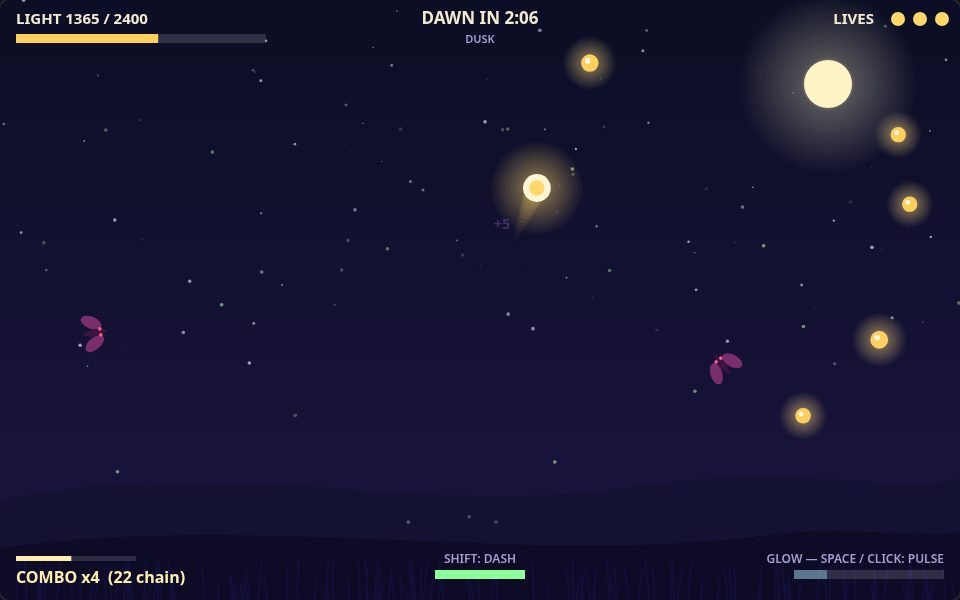
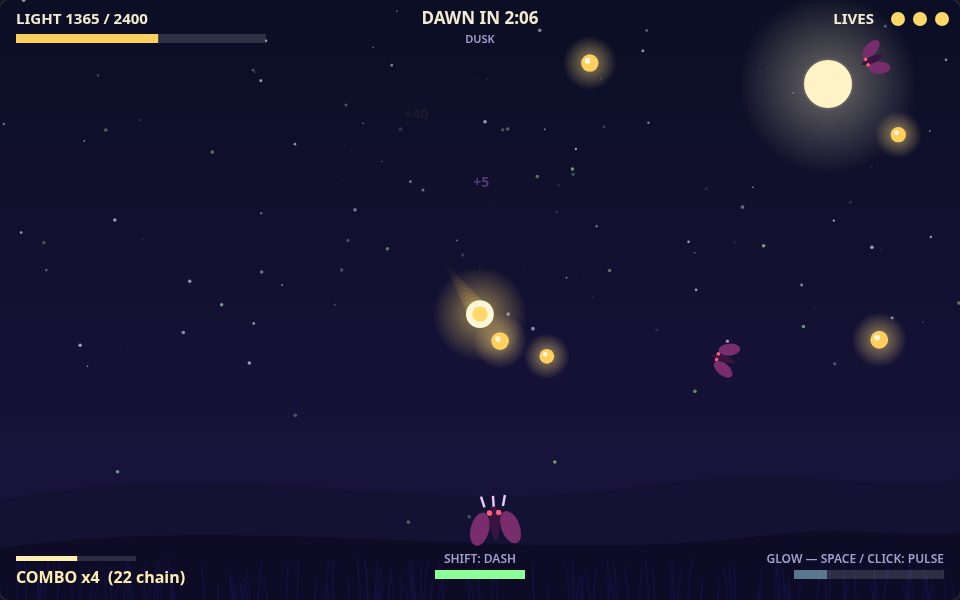
Lumen Drift v3: difficulty select, elder moths, best-score record

diff --git a/game/src/world.js b/game/src/world.js
@@ -4,7 +4,9 @@
 // banishes every moth it touches. Pure state and steps: no drawing, no DOM,
 // so the screenshot scenes can run it headless from a seed.
 
-import { DASH, FIELD, GAME, MOTE, MOTH, PLAYER, PULSE } from './config.js';
+import {
+  DASH, DEFAULT_DIFFICULTY, DIFFICULTIES, FIELD, GAME, MOTE, MOTH, PLAYER, PULSE,
+} from './config.js';
 import { makeRandom, pointInField, range } from './random.js';
 
 export const SCREEN_TITLE = 'title';
@@ -50,11 +52,14 @@ export function comboTier(combo) {
   return Math.min(GAME.comboMaxTier, 1 + Math.floor(combo / GAME.comboPerTier));
 }
 
-export function createWorld(seed) {
+export function createWorld(seed, difficulty = DEFAULT_DIFFICULTY) {
   const random = makeRandom(seed);
   const state = {
     random,
     screen: SCREEN_TITLE,
+    difficulty,            // index into DIFFICULTIES, chosen on the title screen
+    goal: DIFFICULTIES[difficulty].goal,
+    best: 0,               // best score this player has reached (set by main.js)
     time: 0,               // seconds since the night began (play only)
     nightLeft: GAME.nightSeconds,
     score: 0,              // light gathered
@@ -83,6 +88,7 @@ export function createWorld(seed) {
     particles: [],
     popups: [],            // floating score text: {x, y, text, color, age, life}
     mothClock: MOTH.firstSpawnSeconds,
+    elderClock: MOTH.elderEverySeconds,
     brightClock: MOTE.brightEverySeconds * 0.5,
     shardClock: MOTE.shardEverySeconds * 0.75,
     events: [],
@@ -119,20 +125,25 @@ function addPopup(state, x, y, text, color) {
   state.popups.push({ x, y, text, color, age: 0, life: 0.9 });
 }
 
-function spawnMoth(state) {
+function spawnMoth(state, elder = false) {
   // Moths drift in from a random edge, never on top of the wisp.
+  const radius = elder ? MOTH.elderRadius : MOTH.radius;
   let p = pointInField(state.random, FIELD, 10);
   for (let tries = 0; tries < 8 && distance(p, state.player) < 190; tries += 1) {
     p = pointInField(state.random, FIELD, 10);
   }
   const edge = Math.floor(state.random() * 4);
-  if (edge === 0) p = { x: p.x, y: -MOTH.radius };
-  if (edge === 1) p = { x: p.x, y: FIELD.height + MOTH.radius };
-  if (edge === 2) p = { x: -MOTH.radius, y: p.y };
-  if (edge === 3) p = { x: FIELD.width + MOTH.radius, y: p.y };
+  if (edge === 0) p = { x: p.x, y: -radius };
+  if (edge === 1) p = { x: p.x, y: FIELD.height + radius };
+  if (edge === 2) p = { x: -radius, y: p.y };
+  if (edge === 3) p = { x: FIELD.width + radius, y: p.y };
   state.moths.push({
     x: p.x, y: p.y, vx: 0, vy: 0,
-    radius: MOTH.radius,
+    radius,
+    elder,
+    hp: elder ? MOTH.elderHp : 1,
+    banishValue: elder ? MOTH.elderValue : MOTH.banishValue,
+    speedFactor: elder ? MOTH.elderSpeedFactor : 1,
     phase: range(state.random, 0, Math.PI * 2),
     wing: range(state.random, 0, Math.PI * 2),
   });
@@ -154,10 +165,13 @@ function burst(state, x, y, color, count, speed) {
 /** Begin the night from the title screen (or restart after an ending). */
 export function startNight(state) {
   // A fresh seed drawn from the current stream: a restart is a new night,
-  // not a replay of the last one.
+  // not a replay of the last one. The chosen difficulty and the player's
+  // best score carry over the restart.
   const seed = Math.floor(state.random() * 1_000_000_000) + 1;
-  const fresh = createWorld(seed);
+  const best = Math.max(state.best || 0, state.score || 0);
+  const fresh = createWorld(seed, state.difficulty);
   Object.assign(state, fresh);
+  state.best = best;
   state.screen = SCREEN_PLAY;
 }
 
@@ -250,17 +264,24 @@ function updateMotes(state, dt) {
 function mothSpeed(state) {
   const t = 1 - state.nightLeft / GAME.nightSeconds; // 0 at dusk, 1 at dawn
   const ramp = MOTH.baseSpeed + (MOTH.topSpeed - MOTH.baseSpeed) * t;
-  return ramp * (1 + state.phase * 0.07); // each phase hunts a little faster
+  const phased = ramp * (1 + state.phase * 0.07); // each phase hunts faster
+  return phased * DIFFICULTIES[state.difficulty].mothSpeed;
 }
 
 function updateMoths(state, dt) {
   state.mothClock -= dt;
   const t = 1 - state.nightLeft / GAME.nightSeconds;
-  const interval = MOTH.spawnStartSeconds
-    + (MOTH.spawnEndSeconds - MOTH.spawnStartSeconds) * t;
+  const interval = (MOTH.spawnStartSeconds
+    + (MOTH.spawnEndSeconds - MOTH.spawnStartSeconds) * t)
+    * DIFFICULTIES[state.difficulty].spawnFactor;
   if (state.mothClock <= 0 && state.moths.length < MOTH.maxAlive) {
     spawnMoth(state);
     state.mothClock = interval;
+  }
+  state.elderClock -= dt;
+  if (state.elderClock <= 0 && state.moths.length < MOTH.maxAlive) {
+    spawnMoth(state, true);
+    state.elderClock = MOTH.elderEverySeconds * range(state.random, 0.85, 1.25);
   }
   const speed = mothSpeed(state);
   for (const moth of state.moths) {
@@ -269,8 +290,9 @@ function updateMoths(state, dt) {
     const wobble = Math.sin(state.time * MOTH.wobbleHz * Math.PI * 2 + moth.phase)
       * MOTH.wobblePx;
     const angle = toPlayer + (wobble / 160);
-    moth.vx = Math.cos(angle) * speed;
-    moth.vy = Math.sin(angle) * speed;
+    const own = speed * moth.speedFactor;
+    moth.vx = Math.cos(angle) * own;
+    moth.vy = Math.sin(angle) * own;
     moth.x += moth.vx * dt;
     moth.y += moth.vy * dt;
   }
@@ -283,9 +305,16 @@ function updatePulse(state, dt) {
   const r = PULSE.radius * (state.pulseRing.age / PULSE.expandSeconds);
   state.moths = state.moths.filter((moth) => {
     if (distance(moth, state.player) <= r + moth.radius) {
-      state.score += MOTH.banishValue;
-      addPopup(state, moth.x, moth.y - 14, `+${MOTH.banishValue}`, '#c084fc');
-      burst(state, moth.x, moth.y, '#c084fc', 8, 120);
+      moth.hp -= 1;
+      if (moth.hp > 0) {
+        // An elder moth survives its first pulse, cracked but still coming.
+        addPopup(state, moth.x, moth.y - 22, 'CRACKED', '#e9c4ff');
+        burst(state, moth.x, moth.y, '#c084fc', 6, 100);
+        return true;
+      }
+      state.score += moth.banishValue;
+      addPopup(state, moth.x, moth.y - 14, `+${moth.banishValue}`, '#c084fc');
+      burst(state, moth.x, moth.y, '#c084fc', moth.elder ? 16 : 8, 120);
       state.events.push(EVENT_BANISH);
       return false;
     }
@@ -379,7 +408,7 @@ export function stepWorld(state, input, dt) {
     updateMoths(state, dt);
     updatePulse(state, dt);
     updateCollisions(state);
-    if (state.score >= GAME.goal) endNight(state, true);
+    if (state.score >= state.goal) endNight(state, true);
     else if (state.lives <= 0) endNight(state, false);
     else if (state.nightLeft <= 0) endNight(state, false);
   }

diff --git a/game/src/render.js b/game/src/render.js
@@ -2,7 +2,7 @@
 // images, no fonts to load. `now` is a seconds clock for ambient motion
 // (glow breathing, fireflies) that sits outside the fixed-step simulation.
 
-import { COLORS, DASH, FIELD, GAME, PLAYER, PULSE } from './config.js';
+import { COLORS, DASH, DIFFICULTIES, FIELD, GAME, MOTH, PLAYER, PULSE } from './config.js';
 import { makeRandom } from './random.js';
 import {
   PHASES, SCREEN_OVER, SCREEN_PLAY, SCREEN_TITLE, SCREEN_WIN, comboTier,
@@ -163,6 +163,8 @@ function drawMoth(ctx, moth, now) {
   ctx.translate(moth.x, moth.y);
   const angle = Math.atan2(moth.vy, moth.vx);
   ctx.rotate(angle + Math.PI / 2);
+  const scale = moth.radius / MOTH.radius;
+  ctx.scale(scale, scale);
   // Wings.
   ctx.fillStyle = COLORS.mothWing;
   for (const side of [-1, 1]) {
@@ -180,6 +182,27 @@ function drawMoth(ctx, moth, now) {
   ctx.quadraticCurveTo(7, 0, 0, 13);
   ctx.quadraticCurveTo(-7, 0, 0, -13);
   ctx.fill();
+  if (moth.elder) {
+    // An elder wears a crown of thorns; a cracked one (a pulse survived)
+    // shows a pale scar down its body.
+    ctx.strokeStyle = '#e9c4ff';
+    ctx.lineWidth = 1.6;
+    ctx.beginPath();
+    for (const dx of [-6, 0, 6]) {
+      ctx.moveTo(dx, -10);
+      ctx.lineTo(dx * 1.3, -17);
+    }
+    ctx.stroke();
+    if (moth.hp < 2) {
+      ctx.strokeStyle = 'rgba(233,196,255,0.85)';
+      ctx.lineWidth = 1.2;
+      ctx.beginPath();
+      ctx.moveTo(-2, -8);
+      ctx.lineTo(1, 0);
+      ctx.lineTo(-1, 8);
+      ctx.stroke();
+    }
+  }
   // Eyes.
   ctx.fillStyle = COLORS.mothEye;
   ctx.beginPath();
@@ -278,8 +301,8 @@ function drawHud(ctx, state) {
   ctx.font = '700 15px system-ui, sans-serif';
   ctx.fillStyle = COLORS.text;
   ctx.textAlign = 'left';
-  ctx.fillText(`LIGHT ${state.score} / ${GAME.goal}`, 16, 12);
-  bar(ctx, 16, 34, 250, 9, state.score / GAME.goal, COLORS.mote);
+  ctx.fillText(`LIGHT ${state.score} / ${state.goal}`, 16, 12);
+  bar(ctx, 16, 34, 250, 9, state.score / state.goal, COLORS.mote);
   // Night left.
   const mm = Math.floor(state.nightLeft / 60);
   const ss = Math.floor(state.nightLeft % 60).toString().padStart(2, '0');
@@ -347,11 +370,20 @@ function drawTitle(ctx, state, now) {
     '600 15px system-ui, sans-serif', COLORS.textDim);
   centerText(ctx, 'Dash: Shift      Pause: P      Chase the icy star shards — 60 light, gone in seconds', 292,
     '600 15px system-ui, sans-serif', COLORS.textDim);
-  centerText(ctx, `Collect motes to build glow and combos. Reach ${GAME.goal} light to win.`, 316,
+  centerText(ctx, `Collect motes to build glow and combos. Reach ${state.goal} light to win.`, 316,
     '600 15px system-ui, sans-serif', COLORS.textDim);
+  // The difficulty pick: the chosen one is bracketed and lit.
+  const names = DIFFICULTIES
+    .map((d, i) => (i === state.difficulty ? `[ ${i + 1} ${d.name} ]` : `${i + 1} ${d.name}`))
+    .join('     ');
+  centerText(ctx, names, 344, '700 15px system-ui, sans-serif', COLORS.good);
+  if (state.best > 0) {
+    centerText(ctx, `BEST SO FAR: ${state.best} LIGHT`, 368,
+      '600 13px system-ui, sans-serif', COLORS.moteBright);
+  }
   const blink = 0.6 + 0.4 * Math.sin(now * 3);
   ctx.globalAlpha = blink;
-  centerText(ctx, 'CLICK OR PRESS ENTER TO BEGIN', 356,
+  centerText(ctx, 'CLICK OR PRESS ENTER TO BEGIN', 392,
     '700 18px system-ui, sans-serif', COLORS.good);
   ctx.globalAlpha = 1;
 }
@@ -361,9 +393,9 @@ function drawEnd(ctx, state, won) {
   ctx.fillRect(0, 0, FIELD.width, FIELD.height);
   centerText(ctx, won ? 'DAWN BREAKS — YOU WIN' : 'THE GARDEN GOES DARK',
     168, '800 40px system-ui, sans-serif', won ? COLORS.good : COLORS.danger);
-  centerText(ctx, `Light gathered: ${state.score} of ${GAME.goal}`, 232,
+  centerText(ctx, `Light gathered: ${state.score} of ${state.goal} on ${DIFFICULTIES[state.difficulty].name}`, 232,
     '600 20px system-ui, sans-serif', COLORS.text);
-  centerText(ctx, `Best combo chain: ${state.bestCombo}    Time in the night: ${Math.floor(state.time)}s`,
+  centerText(ctx, `Best combo chain: ${state.bestCombo}    Time in the night: ${Math.floor(state.time)}s    Best so far: ${Math.max(state.best || 0, state.score)}`,
     264, '600 16px system-ui, sans-serif', COLORS.textDim);
   centerText(ctx, won ? 'The garden glows again because of you.' : 'The motes scatter… this time.',
     300, '500 16px system-ui, sans-serif', COLORS.textDim);

diff --git a/game/src/main.js b/game/src/main.js
@@ -32,6 +32,20 @@ if (shotName) {
   const audio = createAudio();
   const state = createWorld((Date.now() % 90000) + 7);
 
+  // The player's best score, kept between visits. Storage can be missing
+  // or blocked (a private window, a sandboxed frame): the game just plays
+  // without a record then.
+  const BEST_KEY = 'lumen-drift-best';
+  try {
+    state.best = Number(window.localStorage.getItem(BEST_KEY)) || 0;
+  } catch { state.best = 0; }
+  function saveBest() {
+    state.best = Math.max(state.best || 0, state.score);
+    try {
+      window.localStorage.setItem(BEST_KEY, String(state.best));
+    } catch { /* no storage: the record lives only in this page */ }
+  }
+
   function playEvents() {
     for (const event of state.events) {
       if (event === EVENT_COLLECT) audio.collect(state.combo);
@@ -43,8 +57,8 @@ if (shotName) {
       else if (event === EVENT_PULSE) audio.pulse();
       else if (event === EVENT_DENIED) audio.denied();
       else if (event === EVENT_HIT) audio.hit();
-      else if (event === EVENT_WIN) { audio.win(); audio.stopPad(); }
-      else if (event === EVENT_LOSE) { audio.lose(); audio.stopPad(); }
+      else if (event === EVENT_WIN) { audio.win(); audio.stopPad(); saveBest(); }
+      else if (event === EVENT_LOSE) { audio.lose(); audio.stopPad(); saveBest(); }
     }
     state.events.length = 0;
   }
@@ -67,6 +81,14 @@ if (shotName) {
 
     if (state.screen === SCREEN_TITLE || state.screen === SCREEN_OVER
       || state.screen === SCREEN_WIN) {
+      const pick = input.takeDifficulty();
+      if (pick !== null && pick !== state.difficulty) {
+        // Rebuild the title world at the new goal so the title screen's
+        // own text (and the night that follows) matches the pick.
+        const fresh = createWorld((Date.now() % 90000) + 7, pick);
+        fresh.best = state.best;
+        Object.assign(state, fresh);
+      }
       if (input.take('confirm')) {
         audio.unlock();
         startNight(state);

diff --git a/game/src/config.js b/game/src/config.js
@@ -54,6 +54,11 @@ export const MOTH = {
   spawnEndSeconds: 0.7,   // seconds between moths near dawn
   maxAlive: 16,
   banishValue: 5,      // light for a moth destroyed by a pulse
+  elderEverySeconds: 21,   // an elder moth drifts in about this often
+  elderRadius: 20,         // much bigger than a common moth
+  elderSpeedFactor: 0.55,  // and much slower
+  elderHp: 2,              // but it takes two pulses to banish
+  elderValue: 25,          // and pays five times the light when it falls
 };
 
 export const PULSE = {
@@ -65,12 +70,21 @@ export const PULSE = {
 };
 
 export const GAME = {
-  goal: 2400,          // light to gather before the night ends: the win
+  goal: 2400,          // light to gather before the night ends: the win (Normal)
   nightSeconds: 150,   // the night's length; dawn at zero
   comboWindowSeconds: 1.7,  // collect again within this to grow the combo
   comboPerTier: 3,     // combo count per multiplier tier (x1, x2, x3, x4)
   comboMaxTier: 4,
 };
+
+// Chosen on the title screen (keys 1/2/3). Chill is a shorter, gentler
+// night; Bold asks for more light against faster, thicker moths.
+export const DIFFICULTIES = [
+  { id: 'chill', name: 'CHILL', goal: 1800, mothSpeed: 0.85, spawnFactor: 1.2 },
+  { id: 'normal', name: 'NORMAL', goal: 2400, mothSpeed: 1, spawnFactor: 1 },
+  { id: 'bold', name: 'BOLD', goal: 3000, mothSpeed: 1.15, spawnFactor: 0.85 },
+];
+export const DEFAULT_DIFFICULTY = 1; // Normal
 
 // The night garden palette.
 export const COLORS = {

diff --git a/game/src/input.js b/game/src/input.js
@@ -10,6 +10,7 @@ const MOVE_KEYS = {
 export function createInput(canvas) {
   const held = { left: false, right: false, up: false, down: false };
   const pressed = { pulse: false, confirm: false, mute: false, dash: false, pause: false };
+  let difficultyPick = null; // 0/1/2 from the Digit1/2/3 keys, or null
   const pointer = { x: 0, y: 0, down: false };
 
   function canvasPoint(event) {
@@ -30,6 +31,9 @@ export function createInput(canvas) {
     if (event.repeat) return;
     if (event.code === 'Space') { pressed.pulse = true; event.preventDefault(); }
     if (event.code === 'ShiftLeft' || event.code === 'ShiftRight') pressed.dash = true;
+    if (event.code === 'Digit1') difficultyPick = 0;
+    if (event.code === 'Digit2') difficultyPick = 1;
+    if (event.code === 'Digit3') difficultyPick = 2;
     if (event.code === 'KeyP' || event.code === 'Escape') pressed.pause = true;
     if (event.code === 'Enter' || event.code === 'KeyR') pressed.confirm = true;
     if (event.code === 'KeyM') pressed.mute = true;
@@ -72,6 +76,12 @@ export function createInput(canvas) {
       const was = pressed[name];
       pressed[name] = false;
       return was;
+    },
+    /** Take a difficulty pick (0, 1 or 2), or null if none was pressed. */
+    takeDifficulty() {
+      const pick = difficultyPick;
+      difficultyPick = null;
+      return pick;
     },
   };
 }

diff --git a/README.md b/README.md
@@ -31,6 +31,14 @@ sting costs one of your 3 lives.
 - **Floating score popups** on every collect and banish, a combo timer bar
   that drains under the combo counter, and a dash-readiness bar in the HUD,
   so every system the game runs is visible while you play.
+- **Three difficulties** on the title screen (keys 1/2/3): Chill (1,800
+  light, gentler moths), Normal (2,400) and Bold (3,000, faster and thicker
+  moths) — the goal, moth speed and spawn rate all follow the pick.
+- **Elder moths:** a big crowned moth drifts in every ~21 seconds — slower
+  than the swarm but twice the size, it takes **two pulses** to banish
+  (the first leaves it visibly cracked) and pays 25 light when it falls.
+- **A best-score record** kept in the browser between visits, shown on the
+  title and end screens next to the night's own result.
 
 ## Layout
 
